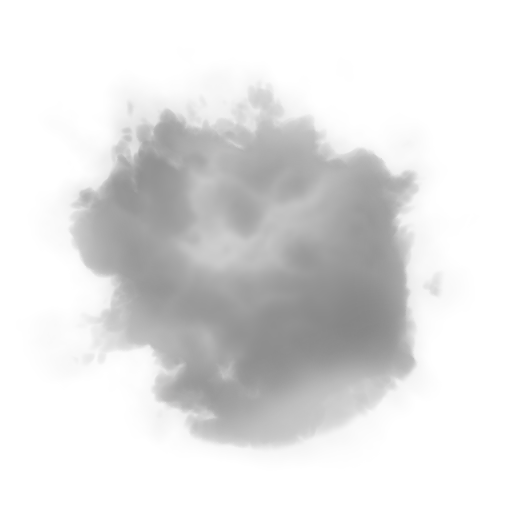
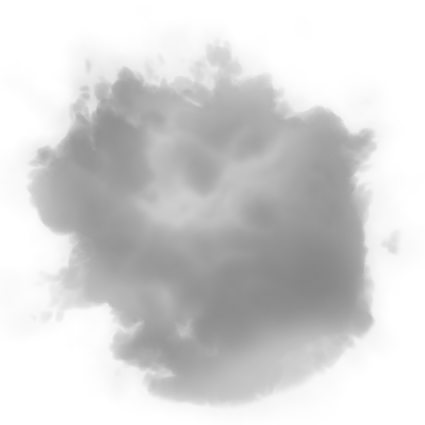
I think I just finished my engine

diff --git a/Emmerald-Engine/ModuleScene.cpp b/Emmerald-Engine/ModuleScene.cpp
@@ -11,6 +11,15 @@ ModuleScene::ModuleScene(Application* app, bool start_enabled) : Module(app, sta
 	root->parent = nullptr;
 	selectedGO = root;
 	name = "Scene";
+
+	Chimney1 = new GameObject("Smoke Particles 1");
+	Chimney2 = new GameObject("Smoke Particles 2");
+	Chimney3 = new GameObject("Smoke Particles 3");
+	Chimney1->SetParent(root);
+	Chimney2->SetParent(root);
+	Chimney3->SetParent(root);
+
+
 }
 
 bool ModuleScene::Start()
@@ -21,6 +30,15 @@ bool ModuleScene::Start()
 	tex4 = TextureImporter::ImportTexture("Assets/Particles/Spark4.png", nullptr);
 	tex5 = TextureImporter::ImportTexture("Assets/Particles/Spark5.png", nullptr);
 	tex6 = TextureImporter::ImportTexture("Assets/Particles/Spark6.png", nullptr);
+
+	Chimney1->AddComponent(PARTICLES);
+	Chimney1->GetComponent<CompTransform>()->position = float3(-1.0f, 2.8f, 1);
+
+	Chimney2->AddComponent(PARTICLES);
+	Chimney2->GetComponent<CompTransform>()->position = float3(26.6f, 9, 38.7f);
+	
+	Chimney3->AddComponent(PARTICLES);
+	Chimney3->GetComponent<CompTransform>()->position = float3(-31.8f, 6.3f, -34.1f);
 
 	return false;
 }
@@ -49,17 +67,19 @@ update_status ModuleScene::Update(float dt)
 					fireWorkVector[i]->speed = float3::zero;
 					fireWorkVector[i]->GetComponent<CompParticles>()->emitters[0]->propertiesOfTheParticle.MaxLifetime = 10.0f;
 					fireWorkVector[i]->GetComponent<CompParticles>()->hasExploded = true;
-					fireWorkVector[i]->LifeTime = 0.5f;
+					fireWorkVector[i]->LifeTime = 0.4f;
 
 				}
 				else {
+					fireWorkVector[i]->GetComponent<CompParticles>()->readytoremove = true;
 					fireWorkVector[i]->active = false;
 					fireWorkVector[i]->GetComponent<CompParticles>()->active = false;
+
 					continue;
 				}
 			}
 			if (fireWorkVector[i]->GetComponent<CompParticles>()->hasExploded) {
-				float explosionspeed = 15.0f;
+				float explosionspeed = 25.0f;
 				fireWorkVector[i]->GetComponent<CompParticles>()->emitters[0]->propertiesOfTheParticle.velocity = float3(Random::AnyRandomFloat() * explosionspeed, Random::AnyRandomFloat() * explosionspeed, Random::AnyRandomFloat() * explosionspeed);
 
 			}
@@ -76,6 +96,21 @@ update_status ModuleScene::Update(float dt)
 
 update_status ModuleScene::PostUpdate(float dt)
 {
+	for (int i = 0; i < App->renderer3D->particleSystems.size(); i++) {
+
+		if (App->renderer3D->particleSystems[i]->readytoremove == true) {
+
+			App->renderer3D->particleSystems.erase(App->renderer3D->particleSystems.begin() + i);
+			i = 0;
+
+		}
+	}
+	for (int i = 0; i < fireWorkVector.size(); i++) {
+		if (fireWorkVector[i]->active == false) {
+			fireWorkVector.erase(fireWorkVector.begin() + i);
+			i = 0;
+		}
+	}
 	return UPDATE_CONTINUE;
 }
 
@@ -144,7 +179,7 @@ void ModuleScene::castFirework() {
 	}
 	fw->GetComponent<CompParticles>()->emitters[0]->propertiesOfTheParticle.velocity = float3(0.0f, 0.1f, 0.0f);
 	fw->GetComponent<CompParticles>()->emitters[0]->propertiesOfTheParticle.acceleration = float3(1.0f, 1.0f, 1.0f);
-	fw->GetComponent<CompParticles>()->emitters[0]->propertiesOfTheParticle.MaxLifetime = 0.6f;
+	fw->GetComponent<CompParticles>()->emitters[0]->propertiesOfTheParticle.MaxLifetime = 0.45f;
 	fw->GetComponent<CompParticles>()->emitters[0]->propertiesOfTheParticle.startsize = 2.0f;
 	fw->GetComponent<CompParticles>()->emitters[0]->propertiesOfTheParticle.endsize = 2.0f;
 

diff --git a/Emmerald-Engine/CompBillboarding.cpp b/Emmerald-Engine/CompBillboarding.cpp
@@ -27,19 +27,23 @@ void CompBillBoarding::Update()
 
 	case SCREENALIGN:
 
-		//Screen Align CODE
 
 		ScreenAlignBBoard();
 
 		break;
 	case WORLDALIGN:
 
-		//World Align CODE
+		WorldAlignBBoard();
 
 		break;
 	case AXISALIGN:
 
-		//Screen Align CODE
+		AxisAlignBBoard();
+
+		break;
+	case SCENECAMALIGN:
+
+		SceneCamAlignBBoard();
 
 		break;
 
@@ -67,6 +71,10 @@ void CompBillBoarding::ShowCompUI()
 			else if (ImGui::MenuItem("Axis Align BillBoard"))
 			{
 				typeofBBoard = BILLBOARDTYPE::AXISALIGN;
+			}
+			else if (ImGui::MenuItem("Scene Camera Align BillBoard"))
+			{
+				typeofBBoard = BILLBOARDTYPE::SCENECAMALIGN;
 			}
 			else if (ImGui::MenuItem("No Align BillBoard"))
 			{
@@ -111,7 +119,31 @@ Quat CompBillBoarding::ScreenAlignBBoard()
 
 	//comp_owner->GetComponent<Comp_Transform>()->SetNewRotation(quatBBoard);
 }
+Quat CompBillBoarding::SceneCamAlignBBoard()
+{
+	//GET INFO ABOUT CAM AXIS
+	
+	float3 activecamfront = App->camera->sceneCam->FrustumCam.front;
+	float3 activecamup = App->camera->sceneCam->FrustumCam.up;
 
+	//Z-AXIS MUST BE INVERTED 
+	zBBoardAxis = -activecamfront;
+	//Y-AXIS KEEPS THE SAME VALUE
+	yBBoardAxis = activecamup;
+
+	//COMPUTE CROSS PRODUCT IN ORDER TO GET THE REMAINING AXIS
+	xBBoardAxis = yBBoardAxis.Cross(zBBoardAxis).Normalized();
+
+	//Gather the axis into a 3x3 matrix
+	float3x3 rotBBoard;
+	rotBBoard.Set(xBBoardAxis.x, xBBoardAxis.y, xBBoardAxis.z, yBBoardAxis.x, yBBoardAxis.y, yBBoardAxis.z, zBBoardAxis.x, zBBoardAxis.y, zBBoardAxis.z);
+
+	rotation = rotBBoard.Inverted().ToQuat();
+
+	return rotation;
+
+	//comp_owner->GetComponent<Comp_Transform>()->SetNewRotation(quatBBoard);
+}
 Quat CompBillBoarding::WorldAlignBBoard()
 {
 	//Vector from gameobject to cam

diff --git a/Emmerald-Engine/ModuleCamera3D.cpp b/Emmerald-Engine/ModuleCamera3D.cpp
@@ -93,9 +93,36 @@ update_status ModuleCamera3D::Update(float dt)
 
 	if (wheel != 0) sceneCam->FrustumCam.pos += sceneCam->FrustumCam.front * 10 * -wheel;
 
-	
-	
+	//Camera TP
+	if (App->input->GetKey(SDL_SCANCODE_U) == KEY_DOWN) {
+		float3 fwPos(0.0f, 3.0f, -19.0f);
+		float3 fwRot(-14.0f, 0.0f, 0.0f);
 
+		App->renderer3D->mainCam->comp_owner->GetComponent<CompTransform>()->position = fwPos;
+		App->renderer3D->mainCam->comp_owner->GetComponent<CompTransform>()->eulerRotation = fwRot;
+	}
+	if (App->input->GetKey(SDL_SCANCODE_I) == KEY_DOWN) {
+		float3 fwPos(-2.0f, 2.0f, -7.0f);
+		float3 fwRot(-2.0f, 32.0f, 0.0f);
+
+		App->renderer3D->mainCam->comp_owner->GetComponent<CompTransform>()->position = fwPos;
+		App->renderer3D->mainCam->comp_owner->GetComponent<CompTransform>()->eulerRotation = fwRot;
+	}
+	if (App->input->GetKey(SDL_SCANCODE_O) == KEY_DOWN) {
+		float3 fwPos(194.0f, 2.0f, -72.0f);
+		float3 fwRot(-7.0f, -520.0f, 0.0f);
+
+		App->renderer3D->mainCam->comp_owner->GetComponent<CompTransform>()->position = fwPos;
+		App->renderer3D->mainCam->comp_owner->GetComponent<CompTransform>()->eulerRotation = fwRot;
+	}
+	if (App->input->GetKey(SDL_SCANCODE_P) == KEY_DOWN) {
+
+		float3 fwPos(-12, 5.0f, -28.0f);
+		float3 fwRot(0.0f, 31.0f, 0.0f);
+
+		App->renderer3D->mainCam->comp_owner->GetComponent<CompTransform>()->position = fwPos;
+		App->renderer3D->mainCam->comp_owner->GetComponent<CompTransform>()->eulerRotation = fwRot;
+	}
 	return UPDATE_CONTINUE;
 }
 

diff --git a/Emmerald-Engine/ParticleEmitter.cpp b/Emmerald-Engine/ParticleEmitter.cpp
@@ -28,10 +28,10 @@ ParticleEmitter::ParticleEmitter(TYPES_OF_PARTICLES typeofpart)
 	case (SMOKE):
 
 		propertiesOfTheParticle.position = { 0.0f,1.0f,0.0f };
-		propertiesOfTheParticle.startsize = 0.5f;
-		propertiesOfTheParticle.endsize = 0.2f;
-		propertiesOfTheParticle.MaxLifetime = 14.0f;
-		propertiesOfTheParticle.velocity = { 0.01f,0.01f,0.0f };
+		propertiesOfTheParticle.startsize = 0.3f;
+		propertiesOfTheParticle.endsize = 1.0f;
+		propertiesOfTheParticle.MaxLifetime = 7.5f;
+		propertiesOfTheParticle.velocity = { 0.01f,0.410,0.0f };
 		propertiesOfTheParticle.acceleration = { 0.1f,0.1f,0.0f };
 		propertiesOfTheParticle.startColor = float4(1.0f, 1.0f, 1.0f, 1.0f);
 		propertiesOfTheParticle.endColor = float4(0.6f, 0.6f, 0.6f, 0.0f);
@@ -53,7 +53,7 @@ ParticleEmitter::ParticleEmitter(TYPES_OF_PARTICLES typeofpart)
 
 	currentparticle = particlesInEmitter.size() - 1;
 
-	EmitParticles(10);
+	EmitParticles(5);
 
 }
 

diff --git a/Emmerald-Engine/ModuleRenderer3D.cpp b/Emmerald-Engine/ModuleRenderer3D.cpp
@@ -223,8 +223,12 @@ update_status ModuleRenderer3D::PostUpdate(float dt)
 		}
 		for (int i = 0; i < particleSystems.size(); i++)
 		{
+			glDepthMask(GL_FALSE);
 
-			particleSystems[i]->Draw();
+			if(particleSystems[i]->active == true){
+				particleSystems[i]->Draw();
+			}
+			glDepthMask(GL_TRUE);
 
 		}
 	}
@@ -256,8 +260,14 @@ update_status ModuleRenderer3D::PostUpdate(float dt)
 		}
 		for (int i = 0; i < particleSystems.size(); i++)
 		{
+			glDepthMask(GL_FALSE);
 
-			particleSystems[i]->Draw();
+			if (particleSystems[i]->active == true) {
+				particleSystems[i]->Draw();
+			}
+
+			glDepthMask(GL_TRUE);
+
 
 		}
 		glBindFramebuffer(GL_FRAMEBUFFER, 0);

diff --git a/Emmerald-Engine/TextureImporter.cpp b/Emmerald-Engine/TextureImporter.cpp
@@ -31,7 +31,6 @@ Texture* TextureImporter::ImportTexture(std::string textfile, GameObject* GoToTe
         glEnable(GL_TEXTURE_2D);
         glEnable(GL_BLEND);
         glBlendFunc(GL_SRC_ALPHA, GL_ONE_MINUS_SRC_ALPHA);
-
         glPixelStorei(GL_UNPACK_ALIGNMENT, 1);
         glGenTextures(1, &_texture);
         glBindTexture(GL_TEXTURE_2D, _texture);
@@ -52,6 +51,7 @@ Texture* TextureImporter::ImportTexture(std::string textfile, GameObject* GoToTe
         glDisable(GL_TEXTURE_2D);
      
         ilDeleteImages(1, &imageToTextID);
+
         if (GoToTex != nullptr)
         if (GoToTex->GetComponent<CompMesh>()->mesh != NULL)
         {

diff --git a/Emmerald-Engine/CompParticles.cpp b/Emmerald-Engine/CompParticles.cpp
@@ -17,7 +17,7 @@ CompParticles::CompParticles(GameObject* _go) :Component(_go)
 	this->hasExploded = false;
 	AddParticleEmitter();
 	App->renderer3D->particleSystems.push_back(this);
-
+	this->readytoremove = false;
 }
 
 CompParticles::~CompParticles()
@@ -76,6 +76,8 @@ void CompParticles::ShowCompUI()
 
 		ImGui::DragFloat("Start Size ", &emitters[0]->propertiesOfTheParticle.startsize, 0.1f, 0.1f, 50.0f);
 		ImGui::DragFloat("End Size ", &emitters[0]->propertiesOfTheParticle.endsize, 0.1f, 0.1f, 50.0f);
+
+		ImGui::Checkbox("Is Active", &this->active);
 
 	}
 

diff --git a/Emmerald-Engine/CompBillboarding.h b/Emmerald-Engine/CompBillboarding.h
@@ -8,6 +8,7 @@ enum BILLBOARDTYPE
     SCREENALIGN,
     WORLDALIGN,
     AXISALIGN,
+    SCENECAMALIGN,
 };
 
 class Application;
@@ -26,6 +27,8 @@ public:
     void ShowCompUI() override;
 
     Quat ScreenAlignBBoard();
+
+    Quat SceneCamAlignBBoard();
 
     Quat WorldAlignBBoard();
 

diff --git a/Emmerald-Engine/CompParticles.h b/Emmerald-Engine/CompParticles.h
@@ -30,13 +30,13 @@ public:
 	std::vector<ParticleEmitter*> emitters;
 	bool hasExploded;
 	float maxDuration = 0.0f;
+	bool readytoremove = false;
 private:
 
 	bool systemActive;
 	//emitter vector
 
 	bool looping = false;
-
 
 	//Timer insert
 

diff --git a/Emmerald-Engine/ModuleScene.h b/Emmerald-Engine/ModuleScene.h
@@ -20,6 +20,10 @@ public:
 	void castFirework();
 	GameObject* selectedGO;
 	GameObject* root;
+	GameObject* Chimney1;
+	GameObject* Chimney2;
+	GameObject* Chimney3;
+
 	std::vector<GameObject*> fireWorkVector;
 	Texture* tex1;
 	Texture* tex2;

diff --git a/Emmerald-Engine/ModuleCamera3D.h b/Emmerald-Engine/ModuleCamera3D.h
@@ -35,6 +35,6 @@ private:
 
 	GameObject* Camera;
 	bool click = false;
-
+	float3 FireWorksView;
 };
 
